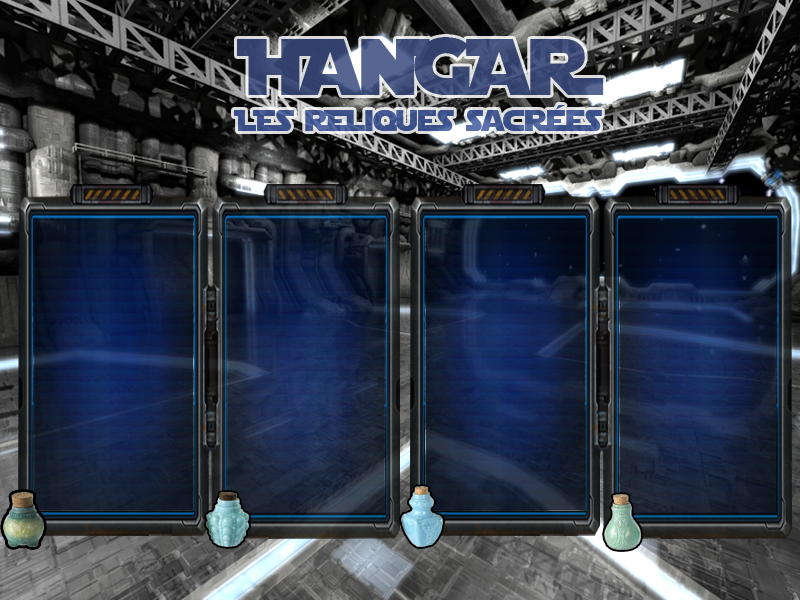
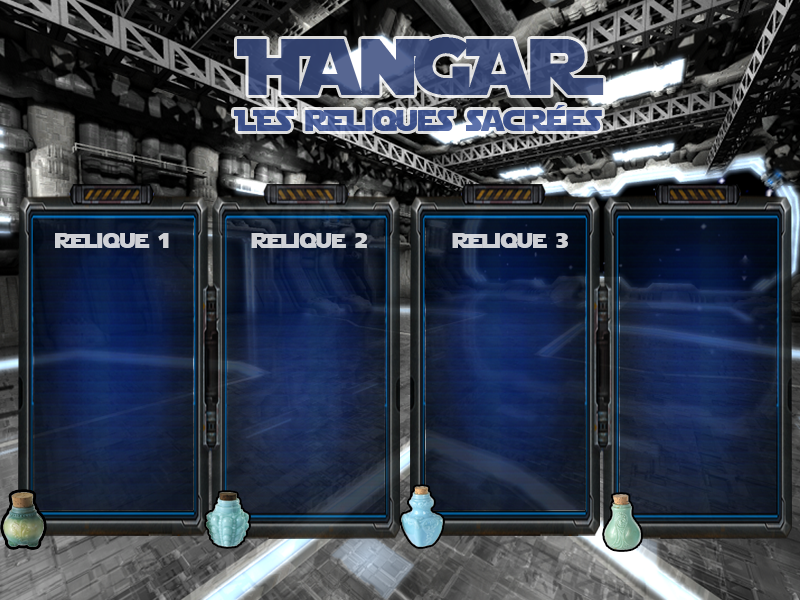
Up Hangar 3 et ajout de getters dans competences

Changed region(s): [[0.5625, 0.39, 0.7188, 0.42], [0.3125, 0.39, 0.4688, 0.42], [0.0625, 0.39, 0.2188, 0.42]]

diff --git a/src/Gameview/Hangar3View.java b/src/Gameview/Hangar3View.java
@@ -11,6 +11,8 @@ import org.jsfml.graphics.Texture;
 import org.jsfml.window.event.Event;
 import org.jsfml.window.event.Event.Type;
 
+import com.sun.crypto.provider.DESCipher;
+
 import controller.Game;
 
 public class Hangar3View {
@@ -23,9 +25,19 @@ public class Hangar3View {
 	
 	private Sprite FondSprite = new Sprite();
 	
-	private Text NomRelique1 =  new Text();
-	private Text NomRelique2 =  new Text();
-	private Text NomRelique3 = new Text();
+	private int itRelique1;
+	private int itRelique2;
+	private int itRelique3;
+	
+	private Text nomRelique1 =  new Text();
+	private Text nomRelique2 =  new Text();
+	private Text nomRelique3 = new Text();
+	
+	private Text descriptionRelique1 =  new Text();
+	private Text descriptionRelique2 =  new Text();
+	private Text descriptionRelique3 = new Text();
+	
+	private Text[][] tabCompetences =  new Text[3][5];
 	
 	public Hangar3View(Game P, RenderWindow maRenderWindow)
 	{
@@ -36,6 +48,10 @@ public class Hangar3View {
 	
 	public String run()
 	{
+		itRelique1 = monGame.getConteneurObjetsVaisseau().reliqueSacreeDispo.size()-1;
+		itRelique2= monGame.getConteneurObjetsVaisseau().reliqueSacreeDispo.size()-2;
+		itRelique3= monGame.getConteneurObjetsVaisseau().reliqueSacreeDispo.size()-3;
+		remplirTableauComp();
 		chargerRessources();
 		configurerTextures();
 
@@ -44,7 +60,7 @@ public class Hangar3View {
 			HangarWindow.clear();
 			HangarWindow.draw(FondSprite);
 
-//			configurerTextesPiecesVaisseau();
+			configurerTextesPiecesVaisseau();
 
 			for(Event event : HangarWindow.pollEvents())
 			{
@@ -58,7 +74,12 @@ public class Hangar3View {
 //					detecterClic(event);
 				}
 
-				
+				HangarWindow.draw(nomRelique1);
+				HangarWindow.draw(nomRelique2);
+				HangarWindow.draw(nomRelique3);
+				HangarWindow.draw(descriptionRelique1);
+				HangarWindow.draw(descriptionRelique2);
+				HangarWindow.draw(descriptionRelique3);
 				HangarWindow.display();
 			}
 		}
@@ -86,5 +107,123 @@ public class Hangar3View {
 		FondSprite.setTexture(FondTexture);
 	}
 	
+	private void configurerTextesPiecesVaisseau(){
+		
+		int taille_Font = 10;
+		
+		nomRelique1.setFont(Font);
+		nomRelique1.setCharacterSize(taille_Font);
+		nomRelique1.setString(monGame.getConteneurObjetsVaisseau().reliqueSacreeDispo.get(itRelique1).getName());
+		nomRelique1.setPosition(60,280);
+		
+		nomRelique2.setFont(Font);
+		nomRelique2.setCharacterSize(taille_Font);
+		nomRelique2.setString(monGame.getConteneurObjetsVaisseau().reliqueSacreeDispo.get(itRelique2).getName());
+		nomRelique2.setPosition(255,280);
+		
+		nomRelique3.setFont(Font);
+		nomRelique3.setCharacterSize(taille_Font);
+		nomRelique3.setString(monGame.getConteneurObjetsVaisseau().reliqueSacreeDispo.get(itRelique3).getName());
+		nomRelique3.setPosition(450,280);
+		
+		taille_Font = 9;
+		int myCut = 22;
+		
+		descriptionRelique1.setFont(Font);
+		descriptionRelique1.setCharacterSize(taille_Font);
+		descriptionRelique1.setString(reforme(monGame.getConteneurObjetsVaisseau().reliqueSacreeDispo.get(itRelique1).getDescription(),myCut));
+		descriptionRelique1.setPosition(45,305);
+		
+		descriptionRelique2.setFont(Font);
+		descriptionRelique2.setCharacterSize(taille_Font);
+		descriptionRelique2.setString(reforme(monGame.getConteneurObjetsVaisseau().reliqueSacreeDispo.get(itRelique2).getDescription(),myCut));
+		descriptionRelique2.setPosition(240,305);
+		
+		descriptionRelique3.setFont(Font);
+		descriptionRelique3.setCharacterSize(taille_Font);
+		descriptionRelique3.setString(reforme(monGame.getConteneurObjetsVaisseau().reliqueSacreeDispo.get(itRelique3).getDescription(),myCut));
+		descriptionRelique3.setPosition(440,305);
+
+		for(int i=0;i<3;i++){
+			for(int j=0;j<5;j++){
+				tabCompetences[i][j].setFont(Font);
+				tabCompetences[i][j].setCharacterSize(taille_Font);
+			}
+		}
+
+		
+		
+		tabCompetences[1][0].setString(monGame.getConteneurObjetsVaisseau().reliqueSacreeDispo.get(itRelique1).getCompetence().getName());
+		tabCompetences[1][0].setString(monGame.getConteneurObjetsVaisseau().reliqueSacreeDispo.get(itRelique1).getCompetence().getName());
+		
+		tabCompetences[1][1].setString(monGame.getConteneurObjetsVaisseau().reliqueSacreeDispo.get(itRelique1).getCompetence().getPuissanceToString());
+		tabCompetences[1][1].setString(monGame.getConteneurObjetsVaisseau().reliqueSacreeDispo.get(itRelique1).getCompetence().getPuissanceToString());
+		
+		tabCompetences[1][2].setString(monGame.getConteneurObjetsVaisseau().reliqueSacreeDispo.get(itRelique1).getCompetence().getMiniMaxi());
+		tabCompetences[1][2].setString(monGame.getConteneurObjetsVaisseau().reliqueSacreeDispo.get(itRelique1).getCompetence().getMiniMaxi());
+		
+		tabCompetences[1][3].setString(monGame.getConteneurObjetsVaisseau().reliqueSacreeDispo.get(itRelique1).getCompetence().getNameCombatEffectOuDefaut());
+		tabCompetences[1][3].setString(monGame.getConteneurObjetsVaisseau().reliqueSacreeDispo.get(itRelique1).getCompetence().getNameCombatEffectOuDefaut());
+		
+		tabCompetences[1][4].setString(monGame.getConteneurObjetsVaisseau().reliqueSacreeDispo.get(itRelique1).getCompetence().getIsLignedeVue());
+		tabCompetences[1][4].setString(monGame.getConteneurObjetsVaisseau().reliqueSacreeDispo.get(itRelique1).getCompetence().getIsLignedeVue());
+		
+		tabCompetences[2][0].setString(monGame.getConteneurObjetsVaisseau().reliqueSacreeDispo.get(itRelique2).getCompetence().getName());
+		tabCompetences[2][0].setString(monGame.getConteneurObjetsVaisseau().reliqueSacreeDispo.get(itRelique2).getCompetence().getName());
+		
+		tabCompetences[2][1].setString(monGame.getConteneurObjetsVaisseau().reliqueSacreeDispo.get(itRelique2).getCompetence().getPuissanceToString());
+		tabCompetences[2][1].setString(monGame.getConteneurObjetsVaisseau().reliqueSacreeDispo.get(itRelique2).getCompetence().getPuissanceToString());
+		
+		tabCompetences[2][2].setString(monGame.getConteneurObjetsVaisseau().reliqueSacreeDispo.get(itRelique2).getCompetence().getMiniMaxi());
+		tabCompetences[2][2].setString(monGame.getConteneurObjetsVaisseau().reliqueSacreeDispo.get(itRelique2).getCompetence().getMiniMaxi());
+		
+		tabCompetences[2][3].setString(monGame.getConteneurObjetsVaisseau().reliqueSacreeDispo.get(itRelique2).getCompetence().getNameCombatEffectOuDefaut());
+		tabCompetences[2][3].setString(monGame.getConteneurObjetsVaisseau().reliqueSacreeDispo.get(itRelique2).getCompetence().getNameCombatEffectOuDefaut());
+		
+		tabCompetences[2][4].setString(monGame.getConteneurObjetsVaisseau().reliqueSacreeDispo.get(itRelique2).getCompetence().getIsLignedeVue());
+		tabCompetences[2][4].setString(monGame.getConteneurObjetsVaisseau().reliqueSacreeDispo.get(itRelique2).getCompetence().getIsLignedeVue());
+		
+		tabCompetences[3][0].setString(monGame.getConteneurObjetsVaisseau().reliqueSacreeDispo.get(itRelique3).getCompetence().getName());
+		tabCompetences[3][0].setString(monGame.getConteneurObjetsVaisseau().reliqueSacreeDispo.get(itRelique3).getCompetence().getName());
+		
+		tabCompetences[3][1].setString(monGame.getConteneurObjetsVaisseau().reliqueSacreeDispo.get(itRelique3).getCompetence().getPuissanceToString());
+		tabCompetences[3][1].setString(monGame.getConteneurObjetsVaisseau().reliqueSacreeDispo.get(itRelique3).getCompetence().getPuissanceToString());
+		
+		tabCompetences[3][2].setString(monGame.getConteneurObjetsVaisseau().reliqueSacreeDispo.get(itRelique3).getCompetence().getMiniMaxi());
+		tabCompetences[3][2].setString(monGame.getConteneurObjetsVaisseau().reliqueSacreeDispo.get(itRelique3).getCompetence().getPuissanceToString());
+		
+		tabCompetences[3][3].setString(monGame.getConteneurObjetsVaisseau().reliqueSacreeDispo.get(itRelique3).getCompetence().getNameCombatEffectOuDefaut());
+		tabCompetences[3][3].setString(monGame.getConteneurObjetsVaisseau().reliqueSacreeDispo.get(itRelique3).getCompetence().getNameCombatEffectOuDefaut());
+		
+		tabCompetences[3][4].setString(monGame.getConteneurObjetsVaisseau().reliqueSacreeDispo.get(itRelique3).getCompetence().getIsLignedeVue());
+		tabCompetences[3][4].setString(monGame.getConteneurObjetsVaisseau().reliqueSacreeDispo.get(itRelique3).getCompetence().getIsLignedeVue());
+		
+	}
+	
+	private void remplirTableauComp(){
+		for(int i=0;i<3;i++){
+			for(int j =0;j<5;j++){
+				tabCompetences[i][j] = new Text();
+			}
+		}
+	}
+	
+	private String reforme( String s, int cut ) {
+		if ( cut > s.length()-1 ) return s;
+		String res = "";
+		int parser = cut;
+		int pasted = 0;
+		while ( parser < s.length()-1 ) {
+			while ( s.charAt(parser) != ' ' && parser > 0 ) {
+				parser--;
+				assert ( parser > 0 );
+			}
+			res += s.subSequence(pasted, parser) + "\n";
+			pasted = parser+1;
+			parser += cut;
+			if ( parser > s.length()-1 ) return res + s.substring(parser-cut+1, s.length());
+		}
+		return res;
+	}
 
 }

diff --git a/src/model/Competence.java b/src/model/Competence.java
@@ -90,4 +90,32 @@ public class Competence {
 	public void setCombatEffect(CombatEffect combatEffect) {
 		this.combatEffect = combatEffect;
 	}
+	
+	public String getMiniMaxi(){
+		return ""+getPorteeMini() +" - "+ getPorteeMaxi();
+	}
+	
+	public String getNameCombatEffectOuDefaut(){
+		if(this.combatEffect == null){
+			return "Pas d'effet";
+		}
+		else
+		{
+			return this.combatEffect.getName();
+		}
+	}
+	
+	public String getIsLignedeVue(){
+		if(this.isLigneDeVue()){
+			return "Ligne de vue requise";
+		}
+		else
+		{
+			return "Ligne de vue non requise";
+		}
+	}
+	
+	public String getPuissanceToString(){
+		return ""+this.getPuissance();
+	}
 }

diff --git a/src/controller/Game.java b/src/controller/Game.java
@@ -115,7 +115,7 @@ public class Game extends Thread {
 	public void run() {
 //		musicActu.balancer();
 
-		String Etat = "Hangar";
+		String Etat = "Hangar3";
 		
 		RenderWindow RenderWind = new RenderWindow(new VideoMode(800, 600, 32), "Beyond the stars",WindowStyle.CLOSE);
 		

diff --git a/src/model/CombatEffect.java b/src/model/CombatEffect.java
@@ -122,6 +122,5 @@ public class CombatEffect {
 		this.puissance = puissance;
 	}
 	
-	
 }
 
